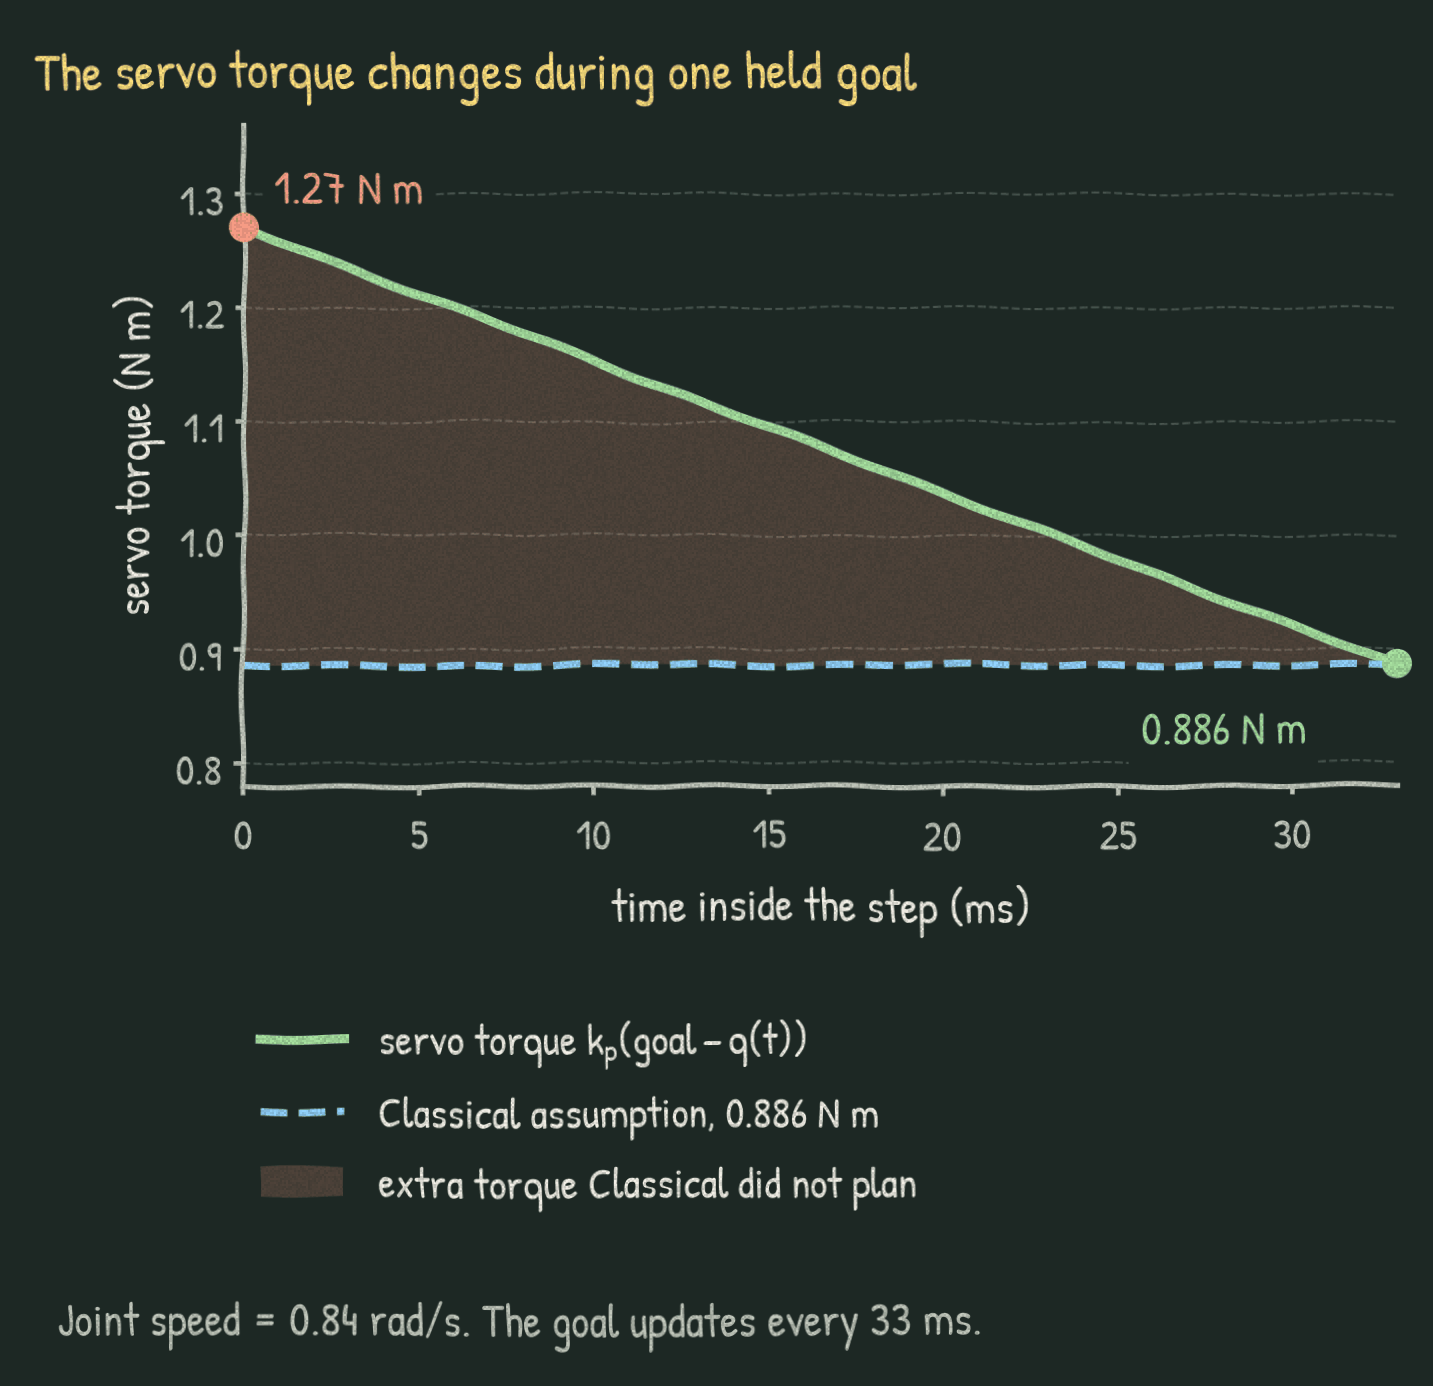
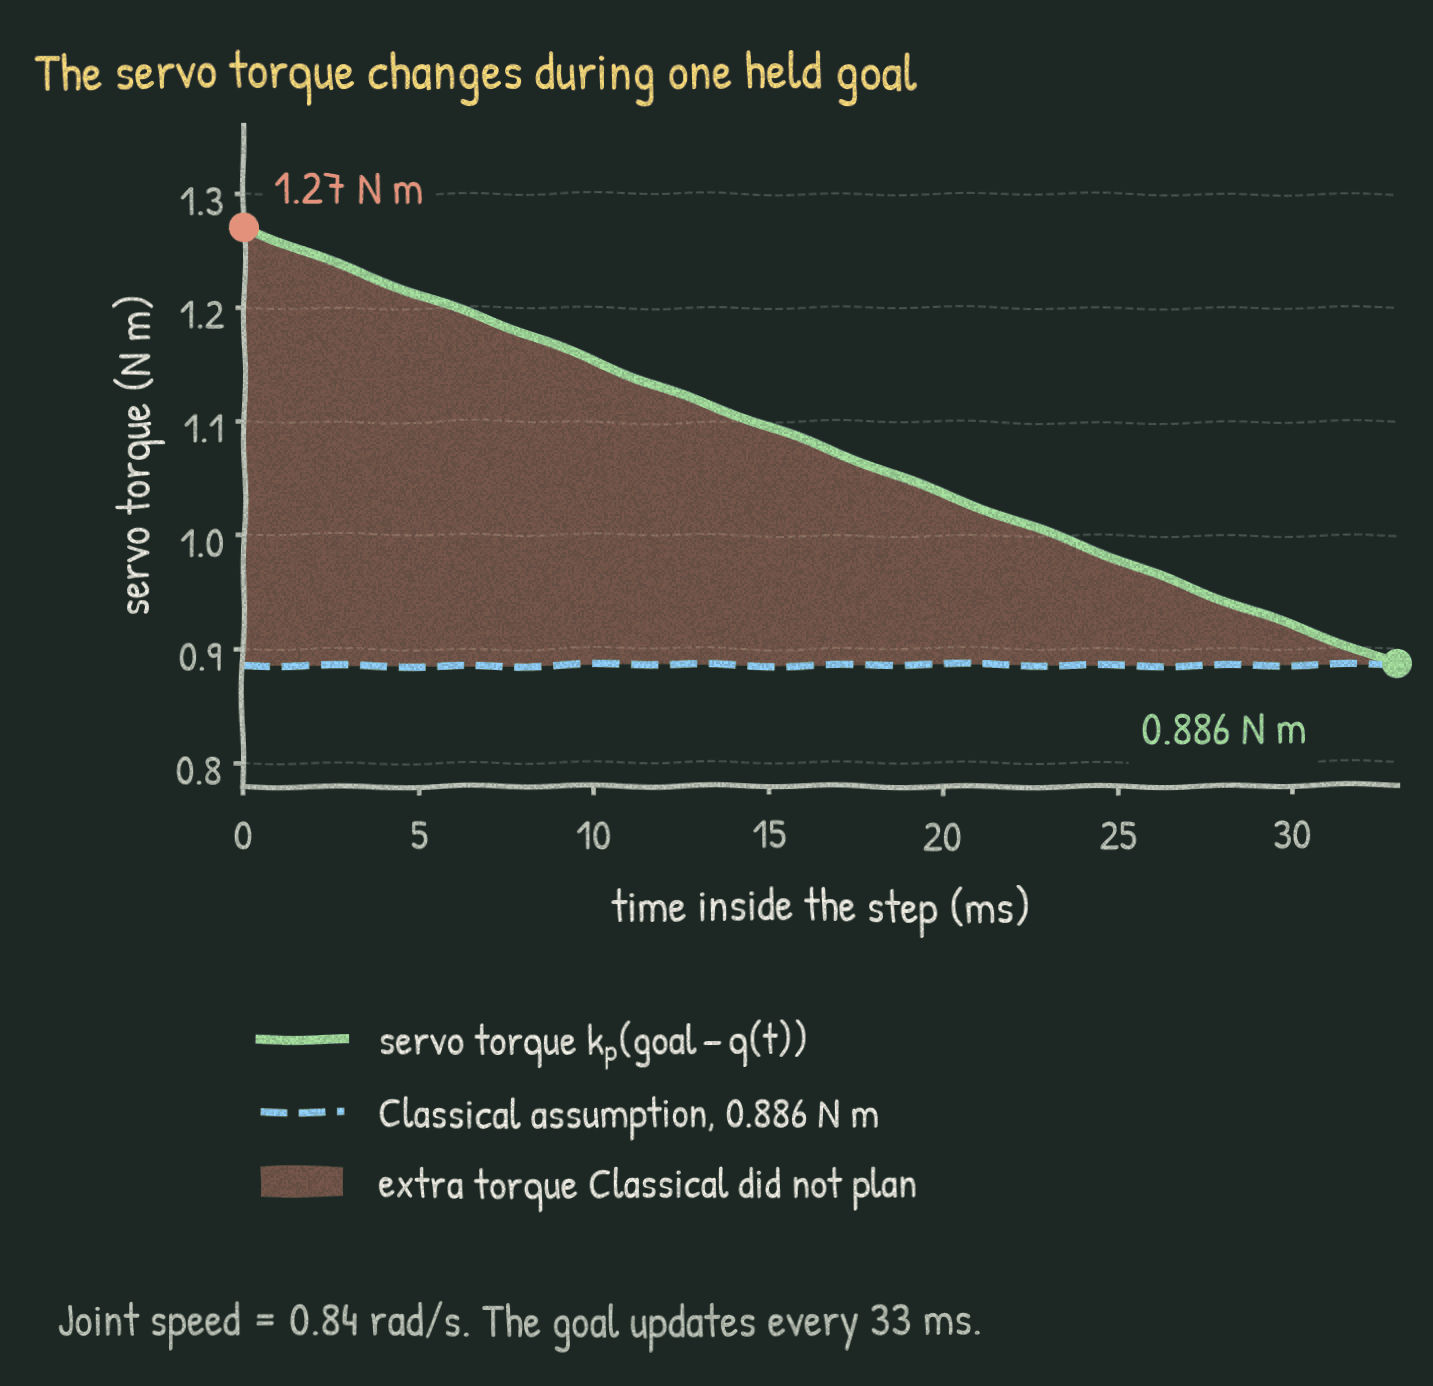
Restore the shake-test ticks, make the hold-torque band visible, use the softer grain on part 8
- shake-test: the old y ticks again, and a faint zero line that does not
  look like the gray direct series.
- hold-torque: the extra-torque band at alpha 0.4, so it shows on the board.
- real-arm-joints alt text says Top and Bottom for the stacked panels.

Changed region(s): [[0.1535, 0.1551, 0.9518, 0.4964], [0.1842, 0.8377, 0.2456, 0.8687]]

diff --git a/robotics/so101-8-measuring-the-tool-in-3d/index.html b/robotics/so101-8-measuring-the-tool-in-3d/index.html
@@ -31,7 +31,7 @@
 <main id="main" class="robotics-main">
 <header class="robotics-header post-header"><a class="eyebrow" href="/#writing">Writing / Robotics</a><h1>How do I get the XYZ position of my robot&#39;s tool tip?</h1><p class="post-description">I get $10,000 worth of measurements from a $40 drawing tablet. Now I want the height of the pen too.</p><p class="post-meta"><time datetime="2026-10-15">October 15, 2026</time><span>14 min read</span><span>Updated <time datetime="2026-10-17">October 17, 2026</time></span></p><p class="post-tags"><a class="tag-chip" href="/robotics/#tag-so-101">so-101</a><a class="tag-chip" href="/robotics/#tag-measurement">measurement</a><a class="tag-chip" href="/robotics/#tag-sensors">sensors</a></p></header>
 <nav class="series-box" aria-label="Series"><p class="series-box-name">From policy to action: the last mile of robotics control</p><p class="series-box-position">Part 8 of 8</p><ol><li class="series-part"><a href="/robotics/so101-1-target-and-goal/">One equation, and every way the arm misses it</a></li><li class="series-part"><a href="/robotics/so101-2-finer-than-the-sensor/">Seeing finer than the sensor</a></li><li class="series-part"><a href="/robotics/so101-3-choosing-the-goal/">Six ways to choose the goal</a></li><li class="series-part"><a href="/robotics/so101-4-learning-what-physics-misses/">Learning what the physics misses</a></li><li class="series-part track-hardware"><a href="/robotics/so101-pen-holder/">A pen holder that shows the arm’s error, not its own</a><span class="track-tag">Hardware</span></li><li class="series-part"><a href="/robotics/so101-6-where-the-last-millimeter-goes/">Where the last millimeter of my drawing arm goes</a></li><li class="series-part"><a href="/robotics/so101-7-learning-between-and-during-strokes/">Teaching my drawing arm to keep learning</a></li><li class="series-part" aria-current="page">How do I get the XYZ position of my robot&#39;s tool tip?</li></ol><div class="series-box-links"><a rel="prev" href="/robotics/so101-7-learning-between-and-during-strokes/">← Previous: Teaching my drawing arm to keep learning</a></div></nav><div class="post-layout"><aside class="article-toc"><details open><summary>In this essay</summary><nav aria-label="Table of contents"><ol><li class="toc-h2"><a href="#section-why-measure-the-tip-in-space">Why measure the tip in space?</a></li><li class="toc-h2"><a href="#section-three-ways-to-measure-in-space">Three ways to measure in space</a></li><li class="toc-h3"><a href="#section-a-camera-and-a-charuco-board">A camera and a ChArUco board</a></li><li class="toc-h3"><a href="#section-markers-and-base-stations-or-motion-capture-cameras">Markers and base stations or motion-capture cameras</a></li><li class="toc-h3"><a href="#section-a-laser-tracker">A laser tracker</a></li><li class="toc-h2"><a href="#section-comparing-the-systems">Comparing the systems</a></li><li class="toc-h3"><a href="#section-what-the-us-40-buys">What the US$40 buys</a></li><li class="toc-h2"><a href="#section-from-the-sensor-target-to-the-nib">From the sensor target to the nib</a></li><li class="toc-h2"><a href="#section-limits">Limits</a></li><li class="toc-h2"><a href="#section-which-route-fits-a-small-arm">Which route fits a small arm?</a></li></ol></nav></details></aside><article class="article-body" aria-label="How do I get the XYZ position of my robot&#39;s tool tip?"><link rel="stylesheet" href="/assets/robotics/chalk/chalk.css">
-<svg class="chalk-defs" aria-hidden="true" focusable="false" width="0" height="0" style="position:absolute;width:0;height:0;overflow:hidden"><filter id="chalk-grain" x="0" y="0" width="100%" height="100%" color-interpolation-filters="sRGB"><feTurbulence type="fractalNoise" baseFrequency="0.011" numOctaves="1" seed="7" result="wobble"/><feDisplacementMap in="SourceGraphic" in2="wobble" scale="3.2" xChannelSelector="R" yChannelSelector="G" result="drawn"/><feTurbulence type="fractalNoise" baseFrequency="0.85" numOctaves="1" seed="3" result="grain"/><feColorMatrix in="grain" type="matrix" values="0 0 0 0 0 0 0 0 0 0 0 0 0 0 0 0 0 0 -0.4 1.14" result="mask"/><feComposite in="drawn" in2="mask" operator="in" result="chalk"/><feFlood flood-color="#1d2824" result="board"/><feComposite in="chalk" in2="board" operator="over"/></filter></svg>
+<svg class="chalk-defs" aria-hidden="true" focusable="false" width="0" height="0" style="position:absolute;width:0;height:0;overflow:hidden"><filter id="chalk-grain" x="0" y="0" width="100%" height="100%" color-interpolation-filters="sRGB"><feTurbulence type="fractalNoise" baseFrequency="0.011" numOctaves="1" seed="7" result="wobble"/><feDisplacementMap in="SourceGraphic" in2="wobble" scale="3.2" xChannelSelector="R" yChannelSelector="G" result="drawn"/><feTurbulence type="fractalNoise" baseFrequency="0.85" numOctaves="1" seed="3" result="grain"/><feColorMatrix in="grain" type="matrix" values="0 0 0 0 0 0 0 0 0 0 0 0 0 0 0 0 0 0 -0.32 1.16" result="mask"/><feComposite in="drawn" in2="mask" operator="in" result="chalk"/><feFlood flood-color="#1d2824" result="board"/><feComposite in="chalk" in2="board" operator="over"/></filter></svg>
 <p>How do I get the precise x, y, and z coordinates of the tip of my robot's gripper?</p>
 <p>I use an SO-101, a small robot arm, to build a smooth, precise controller: the program that turns a desired path into motor commands. I call it the drawing arm project, but drawing is only one showcase. The controller should also work in space, so I want to move beyond the XY plane. Right now the gripper holds a pen, and a Wacom drawing tablet measures the pen's tip, called the nib. The tablet is a flat sensor that reports where the pen touches it, giving me x and y along its surface. What I'm missing is z, the height above that plane.</p>
 <p>The tablet is also the best deal in my setup. It cost about US$40 and reports the pen position to within ±0.25 mm, 133 times a second. OptiTrack, a motion-capture system, lists ±0.3 mm for its cameras, and four of them cost about US$10,000 before software. The two figures come from different kinds of specification, but they sit in the same ballpark. That makes the tablet a cheap, precise feedback signal for learning precise motions, as long as the pen touches it.</p>

diff --git a/robotics/so101-3-choosing-the-goal/index.html b/robotics/so101-3-choosing-the-goal/index.html
@@ -510,7 +510,7 @@
 </tr>
 </tbody>
 </table></div>
-<figure class="article-figure"><a class="figure-link" href="/assets/robotics/so101-series/real-arm-joints.png" aria-label="Open full image: Left: RMS error per joint on the real arm for pi, solve and mpc. The planners win on pan, lift, elbow and roll, and lose on wrist flex. Right: at the fastest speeds pi has 11.7 mrad against 14.2 for solve and 13.4 for mpc."><img src="/assets/robotics/so101-series/real-arm-joints.png" alt="Left: RMS error per joint on the real arm for pi, solve and mpc. The planners win on pan, lift, elbow and roll, and lose on wrist flex. Right: at the fastest speeds pi has 11.7 mrad against 14.2 for solve and 13.4 for mpc." width="1414" height="1755" loading="lazy" decoding="async"></a><figcaption>Real arm, cat motion, 60 Hz. The planners win overall, and pi wins at the fastest speeds.</figcaption></figure>
+<figure class="article-figure"><a class="figure-link" href="/assets/robotics/so101-series/real-arm-joints.png" aria-label="Open full image: Top: RMS error per joint on the real arm for pi, solve and mpc. The planners win on pan, lift, elbow and roll, and lose on wrist flex. Bottom: at the fastest speeds pi has 11.7 mrad against 14.2 for solve and 13.4 for mpc."><img src="/assets/robotics/so101-series/real-arm-joints.png" alt="Top: RMS error per joint on the real arm for pi, solve and mpc. The planners win on pan, lift, elbow and roll, and lose on wrist flex. Bottom: at the fastest speeds pi has 11.7 mrad against 14.2 for solve and 13.4 for mpc." width="1414" height="1755" loading="lazy" decoding="async"></a><figcaption>Real arm, cat motion, 60 Hz. The planners win overall, and pi wins at the fastest speeds.</figcaption></figure>
 <p>The planners win overall, but the picture changes with speed. On the fastest parts of the motions, <code>pi</code> does better, 11.7 mrad against 14.2 for <code>solve</code> and 13.4 for <code>mpc</code>. Most of that comes from wrist_flex, with 24.7 and 24.8 mrad for <code>solve</code> and <code>mpc</code> against 16.0 for <code>pi</code>. One possible cause is a step limit that the planners hit on 1 % to 3 % of the steps, but I haven't verified it, and each controller ran only once.</p>
 <h3 id="section-planning-with-a-better-estimate-mpca">Planning with a better estimate: mpca</h3>
 <p><code>mpca</code> is <code>mpc</code> with the Kalman estimate of <code>adapt</code> in place of its own slow <span class="katex"><span class="katex-mathml"><math xmlns="http://www.w3.org/1998/Math/MathML"><semantics><mrow><mover accent="true"><mi>w</mi><mo>^</mo></mover></mrow><annotation encoding="application/x-tex">\hat w</annotation></semantics></math></span><span class="katex-html" aria-hidden="true"><span class="katex-base"><span class="katex-strut" style="height:0.6944em;"></span><span class="mord katex-accent"><span class="vlist-t"><span class="vlist-r"><span class="vlist" style="height:0.6944em;"><span style="top:-3em;"><span class="pstrut" style="height:3em;"></span><span class="mord mathnormal" style="margin-right:0.0269em;">w</span></span><span style="top:-3em;"><span class="pstrut" style="height:3em;"></span><span class="accent-body" style="left:-0.1667em;"><span class="mord">^</span></span></span></span></span></span></span></span></span></span>, so it combines families 4 and 5. In a simulated load step, <code>mpca</code> got 2.5 mrad against 3.7 for <code>mpc</code> at 30 Hz.</p>

diff --git a/scripts/so101_part3_figures.py b/scripts/so101_part3_figures.py
@@ -250,7 +250,7 @@ def hold_torque():
             label=r"servo torque $k_p(goal-q(t))$")
     ax.plot(time_ms, classical, color=BLUE, lw=2.4, ls="--",
             label="Classical assumption, 0.886 N m")
-    ax.fill_between(time_ms, classical, torque, color=ORANGE, alpha=0.22, lw=0,
+    ax.fill_between(time_ms, classical, torque, color=ORANGE, alpha=0.4, lw=0,
                     label="extra torque Classical did not plan")
     ax.scatter([0, duration_ms], [start_torque, final_torque], color=[ORANGE, TEAL],
                zorder=4, s=60, clip_on=False)
@@ -337,7 +337,9 @@ def shake_test():
             keep = (tt >= 4) & (tt < 6.5)
             ax.plot(tt[keep], error[keep], color=colors[controller], lw=2.4,
                     label=names[controller])
-        ax.axhline(0, color=MUTED, lw=1.4)
+        # A thin guide line, in a different color from the gray "direct" series.
+        ax.axhline(0, color=GRID, lw=1.3)
+        ax.set_yticks([-100, -50, 0, 50, 100, 150] if shake == "vertical" else range(-100, 101, 25))
         ax.set_title(f"{shake.capitalize()} shake, {joint_name}, 1 Hz", loc="left",
                      pad=10, x=-(line_left - 0.15) / line_width)
         ax.set_xlabel("time (s)")

diff --git a/content/robotics/so101-8-measuring-the-tool-in-3d.md b/content/robotics/so101-8-measuring-the-tool-in-3d.md
@@ -11,7 +11,7 @@ thumbnail_alt: 'Overhead view of the SO-101 arm reaching over the drawing tablet
 ---
 
 <link rel="stylesheet" href="/assets/robotics/chalk/chalk.css">
-<svg class="chalk-defs" aria-hidden="true" focusable="false" width="0" height="0" style="position:absolute;width:0;height:0;overflow:hidden"><filter id="chalk-grain" x="0" y="0" width="100%" height="100%" color-interpolation-filters="sRGB"><feTurbulence type="fractalNoise" baseFrequency="0.011" numOctaves="1" seed="7" result="wobble"/><feDisplacementMap in="SourceGraphic" in2="wobble" scale="3.2" xChannelSelector="R" yChannelSelector="G" result="drawn"/><feTurbulence type="fractalNoise" baseFrequency="0.85" numOctaves="1" seed="3" result="grain"/><feColorMatrix in="grain" type="matrix" values="0 0 0 0 0 0 0 0 0 0 0 0 0 0 0 0 0 0 -0.4 1.14" result="mask"/><feComposite in="drawn" in2="mask" operator="in" result="chalk"/><feFlood flood-color="#1d2824" result="board"/><feComposite in="chalk" in2="board" operator="over"/></filter></svg>
+<svg class="chalk-defs" aria-hidden="true" focusable="false" width="0" height="0" style="position:absolute;width:0;height:0;overflow:hidden"><filter id="chalk-grain" x="0" y="0" width="100%" height="100%" color-interpolation-filters="sRGB"><feTurbulence type="fractalNoise" baseFrequency="0.011" numOctaves="1" seed="7" result="wobble"/><feDisplacementMap in="SourceGraphic" in2="wobble" scale="3.2" xChannelSelector="R" yChannelSelector="G" result="drawn"/><feTurbulence type="fractalNoise" baseFrequency="0.85" numOctaves="1" seed="3" result="grain"/><feColorMatrix in="grain" type="matrix" values="0 0 0 0 0 0 0 0 0 0 0 0 0 0 0 0 0 0 -0.32 1.16" result="mask"/><feComposite in="drawn" in2="mask" operator="in" result="chalk"/><feFlood flood-color="#1d2824" result="board"/><feComposite in="chalk" in2="board" operator="over"/></filter></svg>
 
 How do I get the precise x, y, and z coordinates of the tip of my robot's gripper?
 

diff --git a/content/robotics/so101-3-choosing-the-goal.md b/content/robotics/so101-3-choosing-the-goal.md
@@ -375,7 +375,7 @@ On the real arm, on the cat motion at 60 Hz, the errors in mrad were:
 | solve | 6.2 | 3.2 | 7.4 | 6.7 | 8.7 | 2.8 |
 | mpc | 6.0 | 3.0 | 7.0 | 6.1 | 8.6 | 2.8 |
 
-![Left: RMS error per joint on the real arm for pi, solve and mpc. The planners win on pan, lift, elbow and roll, and lose on wrist flex. Right: at the fastest speeds pi has 11.7 mrad against 14.2 for solve and 13.4 for mpc.](/assets/robotics/so101-series/real-arm-joints.png "Real arm, cat motion, 60 Hz. The planners win overall, and pi wins at the fastest speeds.")
+![Top: RMS error per joint on the real arm for pi, solve and mpc. The planners win on pan, lift, elbow and roll, and lose on wrist flex. Bottom: at the fastest speeds pi has 11.7 mrad against 14.2 for solve and 13.4 for mpc.](/assets/robotics/so101-series/real-arm-joints.png "Real arm, cat motion, 60 Hz. The planners win overall, and pi wins at the fastest speeds.")
 
 The planners win overall, but the picture changes with speed. On the fastest parts of the motions, `pi` does better, 11.7 mrad against 14.2 for `solve` and 13.4 for `mpc`. Most of that comes from wrist_flex, with 24.7 and 24.8 mrad for `solve` and `mpc` against 16.0 for `pi`. One possible cause is a step limit that the planners hit on 1 % to 3 % of the steps, but I haven't verified it, and each controller ran only once.
 
